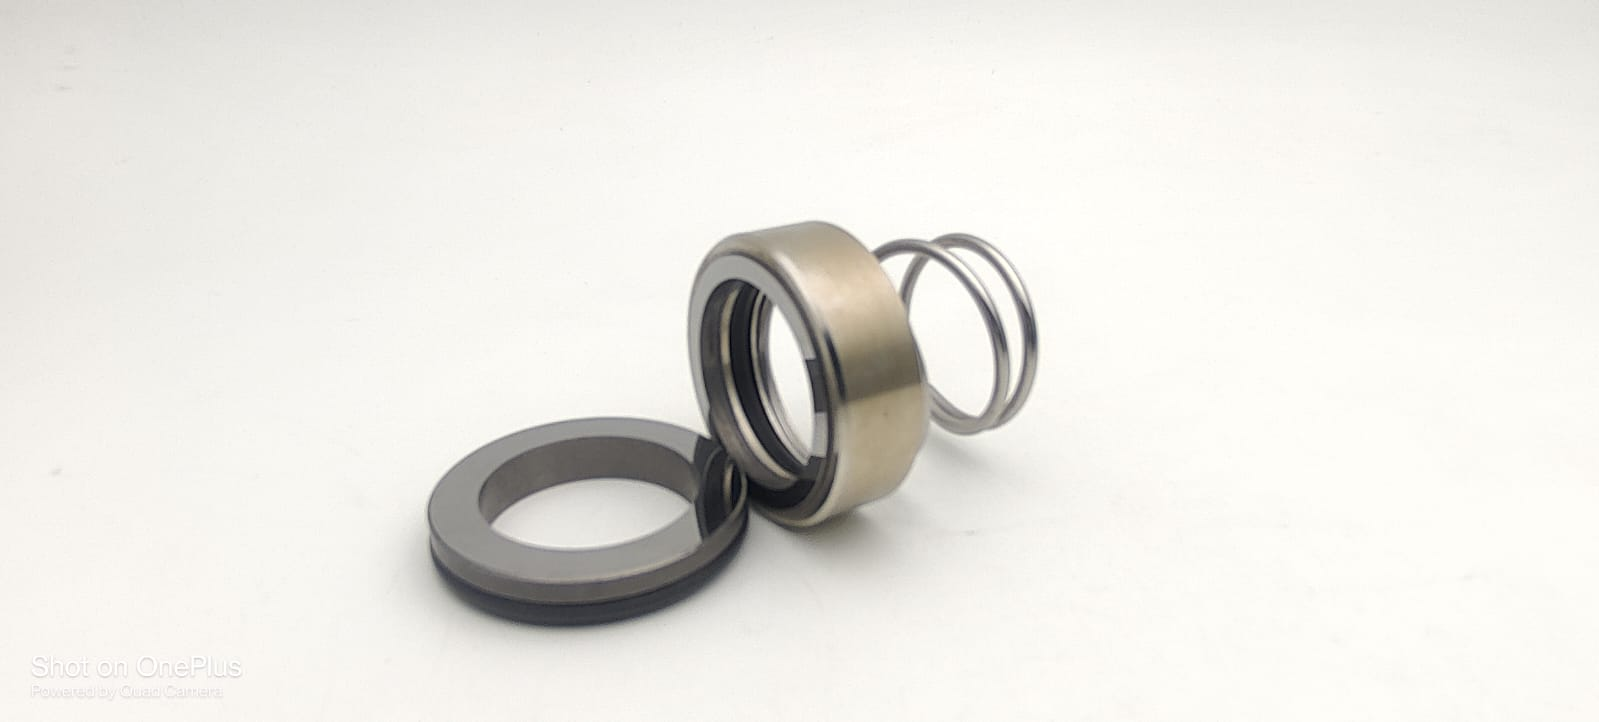
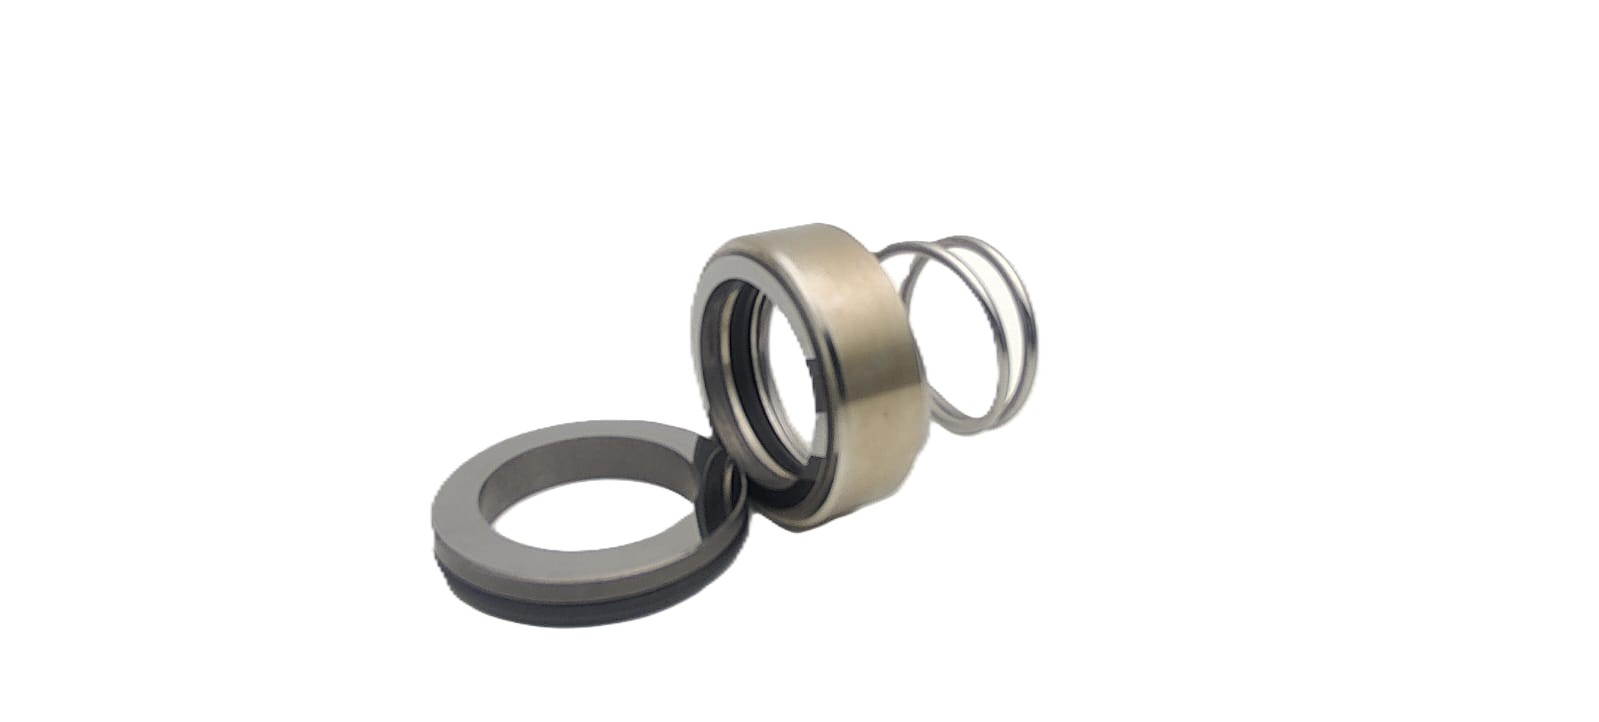
feat: add new product image and refine gallery card styling with updated layout and blending properties

diff --git a/gallery.js b/gallery.js
@@ -69,7 +69,7 @@ document.addEventListener('DOMContentLoaded', () => {
                 
                 <!-- Premium Image Container -->
                 <div class="gallery-img-wrapper position-relative overflow-hidden" style="aspect-ratio: 1/1;">
-                    <img src="${path}${fileName}" alt="${displayName}" class="card-img-top img-fluid p-4 product-image" style="height: 100%; object-fit: contain;">
+                    <img src="${path}${fileName}" alt="${displayName}" class="card-img-top img-fluid product-image">
                     
                     <!-- Frosted Blur Hover Overlay -->
                     <div class="gallery-overlay position-absolute top-0 start-0 w-100 h-100 d-flex align-items-center justify-content-center">
@@ -85,7 +85,7 @@ document.addEventListener('DOMContentLoaded', () => {
                 </div>
                 
                 <!-- Product Card Body -->
-                <div class="card-body p-3 d-flex flex-column justify-content-between text-center bg-white bg-opacity-25">
+                <div class="card-body p-3 d-flex flex-column justify-content-between text-center">
                     <div>
                         <h5 class="h6 card-title mb-1 fw-bold text-dark text-truncate-2">${displayName}</h5>
                         <p class="small text-secondary mb-0">High-Precision Seal</p>

diff --git a/style.css b/style.css
@@ -365,8 +365,8 @@ body::before {
 
 /* Gallery Specific Adjustments & Card Refreshes */
 .gallery-img-wrapper {
-  background: radial-gradient(circle, rgba(255, 255, 255, 0.95) 0%, rgba(241, 245, 249, 0.8) 100%) !important;
-  border-bottom: 1px solid rgba(148, 163, 184, 0.25) !important;
+  background: transparent !important;
+  border-bottom: 1px solid rgba(148, 163, 184, 0.15) !important;
   overflow: hidden;
   position: relative;
 }
@@ -379,16 +379,20 @@ body.steel-theme .card.product-card {
 
 body.steel-theme .card.product-card:hover {
   transform: translateY(-8px) scale(1.02) !important;
-  border-color: rgba(44, 62, 80, 0.6) !important;
-  box-shadow: 0 20px 40px rgba(30, 41, 59, 0.15) !important;
+  border-color: rgba(44, 62, 80, 0.4) !important;
+  box-shadow: 0 20px 40px rgba(30, 41, 59, 0.1) !important;
 }
 
 .product-image {
+  mix-blend-mode: multiply;
+  width: 100% !important;
+  height: 100% !important;
+  object-fit: cover !important;
   transition: transform 0.5s cubic-bezier(0.16, 1, 0.3, 1) !important;
 }
 
 .card.product-card:hover .product-image {
-  transform: scale(1.1) rotate(1deg) !important;
+  transform: scale(1.08) rotate(1deg) !important;
 }
 
 .gallery-overlay {
